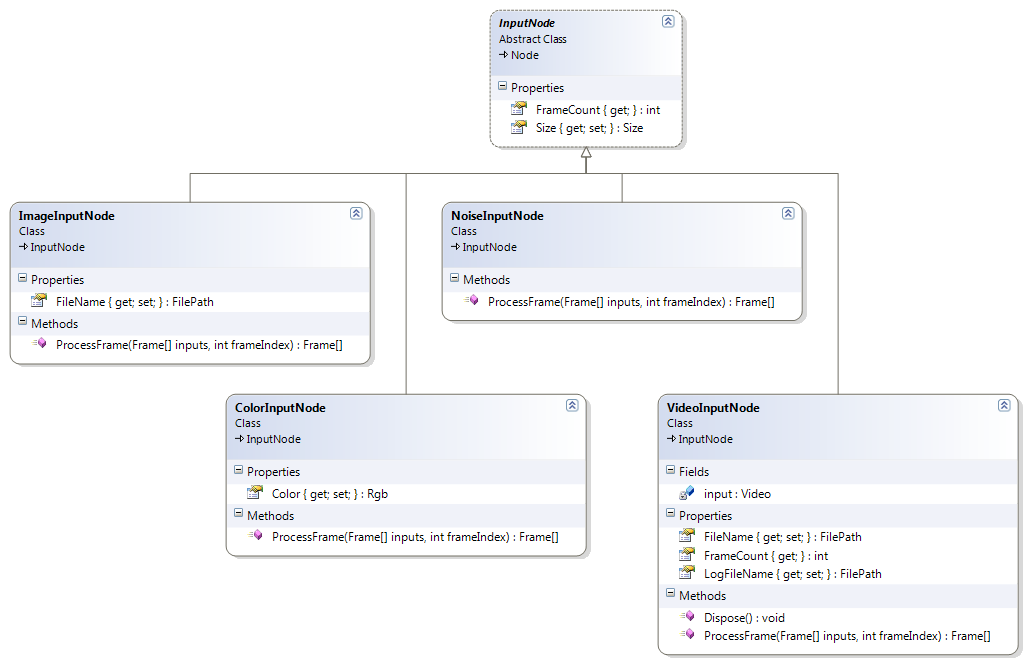
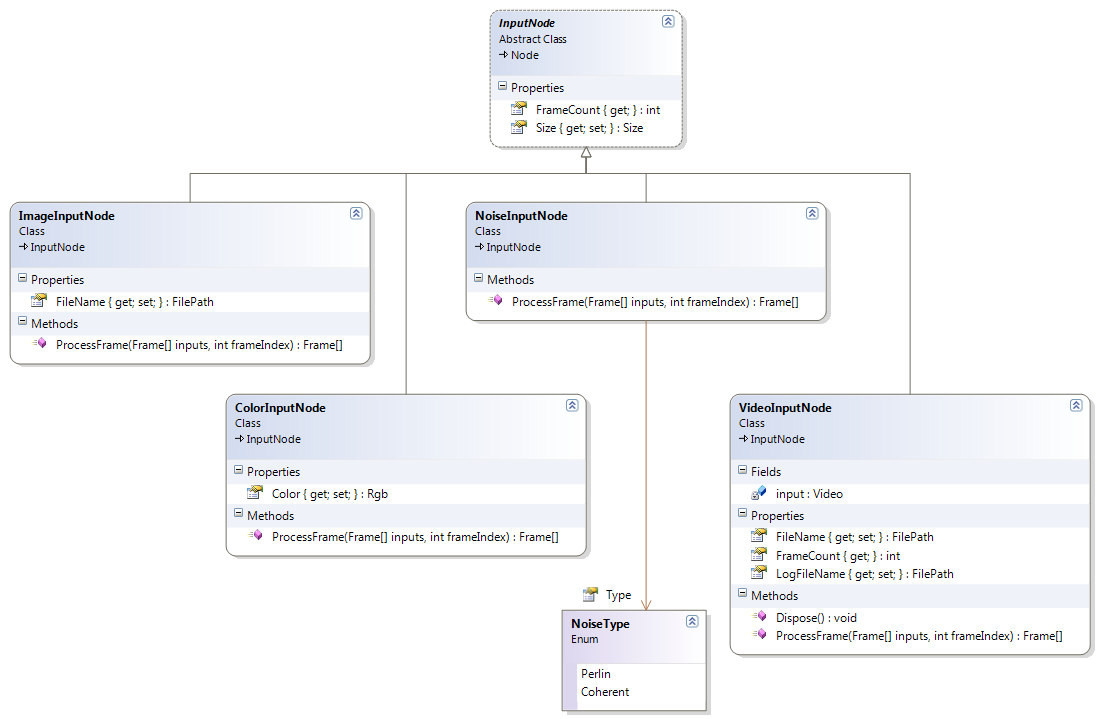
Expand section on input nodes; fill in some missing attribute annotations

diff --git a/entwurfsheft/YuvKA.Pipeline/inputnodes.tex b/entwurfsheft/YuvKA.Pipeline/inputnodes.tex
@@ -56,7 +56,7 @@ public FilePath FileName { get; set; }
 	\begin{verbatim}
 	public override Frame[] ProcessFrame(Frame[] inputs, int frameIndex)
 	\end{verbatim}
-	Ignoriert jegliche Eingabe und liefert als Rückgabewert einen Array, der einen \name{Frame} mit den Bilddaten der Datei (aus dem Pfad \name{FileName}) enthält.
+	Ignoriert den Wert der Eingabeparameter und liefert als Rückgabewert einen Array, der einen \name{Frame} mit den Bilddaten der Datei (aus dem Pfad \name{FileName}) enthält.
 
 \end{itemize}
 \subsubsection{YuvKA.Pipeline.ColorInputNode}
@@ -84,10 +84,36 @@ Die Klasse \name{ColorInputNode} liefert die Funktionalität, einen Videostream 
 	\begin{verbatim}
 	public override Frame[] ProcessFrame(Frame[] inputs, int frameIndex)
 	\end{verbatim}
-	Ignoriert jegliche Eingabe und liefert als Rückgabewert einen Array, der einen \name{Frame} enthält welcher vollends mit der vom Benutzer gewählten Farbe ausgefüllt ist.
+	Ignoriert den Wert der Eingabeparameter und liefert als Rückgabewert einen Array, der einen \name{Frame} enthält welcher vollends mit der vom Benutzer gewählten Farbe ausgefüllt ist.
 
 \end{itemize}
 
 \subsubsection{YuvKA.Pipeline.NoiseInputNode}
+
+\begin{verbatim}
+public class NoiseInputNode : InputNode
+\end{verbatim}
+
+\paragraph{Beschreibung}~\\
+Die Klasse \name{NoiseInputNode} stellt einen Knoten bereit, welcher eine von zwei Arten zufällig generierter Videostreams in Form von \name{Frame}s mit Rauschsignal an die Pipeline liefert. Die Klasse erbt von der abstrakten \name{InputNode}-Klasse.
+
+\paragraph{Typmember}
+\begin{itemize}
+
+\property{Type}
+	\begin{verbatim}
+        [DataMember]
+        public NoiseType Type { get; set; }
+	\end{verbatim}
+	Setzt den Typ des Videostreams fest, welcher generiert wird. Zur Auswahl stehen Perlin-Noise und kohärentes Bildrauschen. 
+
+\method{ProcessFrame}
+	\begin{verbatim}
+	public override Frame[] ProcessFrame(Frame[] inputs, int frameIndex
+	\end{verbatim}
+	Ignoriert den Wert der Eingabeparameter und liefert als Rückgabewert einen Array, der einen \name{Frame} enthält mit den Bilddaten des zufällig generierten \name{Frame}s.
+
+
+\end{itemize}
 
 \subsubsection{YuvKA.Pipeline.VideoInputNode}

diff --git a/implementation/YuvKA/Pipeline/Implementation/VideoInputNode.cs b/implementation/YuvKA/Pipeline/Implementation/VideoInputNode.cs
@@ -4,19 +4,25 @@ using System.Linq;
 using System.Text;
 using YuvKA.VideoModel;
 using System.ComponentModel;
+using System.Runtime.Serialization;
 
 namespace YuvKA.Pipeline.Implementation
 {
+	[DataContract]
 	public class VideoInputNode : InputNode
 	{
+		[Browsable(false)]
 		YuvEncoder.Video input;
 
 		[DisplayName("Video File")]
+		[DataMember]
 		public FilePath FileName { get; set; }
 
 		[DisplayName("Optional Log File")]
+		[DataMember]
 		public FilePath LogFileName { get; set; }
 
+		[Browsable(false)]
 		public override int FrameCount { get { return input.FrameCount; } }
 
 		public override Frame[] ProcessFrame(Frame[] inputs, int frameIndex)

diff --git a/implementation/YuvKA/Pipeline/Node.cs b/implementation/YuvKA/Pipeline/Node.cs
@@ -10,7 +10,7 @@ using System.Runtime.Serialization;
 namespace YuvKA.Pipeline
 {
 	[InheritedExport]
-    [DataContract]
+	[DataContract]
 	public abstract class Node : IDisposable
 	{
 		public class Input
@@ -31,10 +31,10 @@ namespace YuvKA.Pipeline
 		}
 
 		[Browsable(false)]
-        [DataMember]
+		[DataMember]
 		public double X { get; set; }
 		[Browsable(false)]
-        [DataMember]
+		[DataMember]
 		public double Y { get; set; }
 
 		[Browsable(false)]

diff --git a/implementation/YuvKA/VideoModel/Frame.cs b/implementation/YuvKA/VideoModel/Frame.cs
@@ -7,18 +7,15 @@ namespace YuvKA.VideoModel
 {
 	public class Frame
 	{
-        public Size Size { get; private set; }
+		public Size Size { get; private set; }
 
-		public Rgb[] Data
+		public Frame(Size size)
 		{
-			get
-			{
-				throw new System.NotImplementedException();
-			}
-			set
-			{
-			}
+			Data = new Rgb[size.Height * size.Width];
+			Size = size;
 		}
+
+		public Rgb[] Data { get; set; }
 
 		public Rgb this[int x, int y]
 		{

diff --git a/implementation/YuvKA/Pipeline/Implementation/NoiseInput.cs b/implementation/YuvKA/Pipeline/Implementation/NoiseInput.cs
@@ -3,11 +3,16 @@ using System.Collections.Generic;
 using System.Linq;
 using System.Text;
 using YuvKA.VideoModel;
+using System.Runtime.Serialization;
 
 namespace YuvKA.Pipeline.Implementation
 {
+	[DataContract]
 	public class NoiseInputNode : InputNode
 	{
+		[DataMember]
+		public NoiseType Type { get; set; }
+
 		#region INode Members
 
 		public override Frame[] ProcessFrame(Frame[] inputs, int frameIndex)

diff --git a/implementation/YuvKA/Pipeline/Implementation/ImageInputNode.cs b/implementation/YuvKA/Pipeline/Implementation/ImageInputNode.cs
@@ -10,10 +10,11 @@ using System.Runtime.Serialization;
 
 namespace YuvKA.Pipeline.Implementation
 {
+	[DataContract]
 	public class ImageInputNode : InputNode
 	{
 		[DisplayName("File Name")]
-        [DataMember]
+		[DataMember]
 		public FilePath FileName { get; set; }
 
 		public override Frame[] ProcessFrame(Frame[] inputs, int frameIndex)

diff --git a/implementation/YuvKA/Pipeline/Implementation/ColorInput.cs b/implementation/YuvKA/Pipeline/Implementation/ColorInput.cs
@@ -7,10 +7,10 @@ using System.Runtime.Serialization;
 
 namespace YuvKA.Pipeline.Implementation
 {
-    [DataContract]
+	[DataContract]
 	public class ColorInputNode : InputNode
 	{
-        [DataMember]
+		[DataMember]
 		public Rgb Color
 		{
 			get
